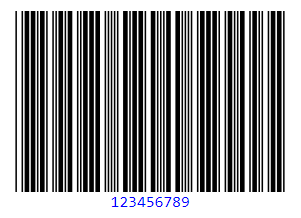
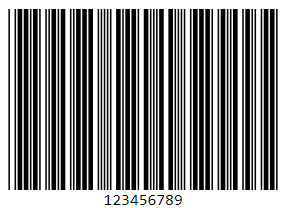
docs(barcode):improvements as per comments

diff --git a/components/barcode/overview.md b/components/barcode/overview.md
@@ -19,8 +19,7 @@ All graphics are rendered on the client by using [Scalable Vector Graphics (SVG)
 To add a Telerik Barcode to your Blazor app:
 
 1. Add the `TelerikBarcode` tag.
-1. Inside it, add `BarcodeText` tag that styles the barcode text.
-1. Provide `Value` (one-way data binding) or `bind-Value` (two-way data binding) property
+1. Provide `Value` property
 1. Set its `Height` and `Width`
 1. Optionally, choose a `Type` (one of the [encodings we support]({%slug  components/barcode/encoding%})).
     * Its default encoding is `Code39`.
@@ -32,11 +31,7 @@ The following example demonstrates how to initialize the Barcode with its defaul
 ````CSHTML
 <TelerikBarcode Width="300px"
                 Height="200px"
-                Type="@BarcodeType.Code39"
                 Value="123456789">
-    <BarcodeText Color="blue">
-        <BarcodeTextMargin Left="0"></BarcodeTextMargin>
-    </BarcodeText>
 </TelerikBarcode>
 ````
 
@@ -49,6 +44,46 @@ For more information, refer to the [article on encoding]({%slug  components/barc
 ## Features
 
 >caption The Barcode provides the following features:
+
+### General Properties
+
+* `RenderAs` - `enum` - defines the preferred rendering engine - svg/canvas.
+
+* `Checksum` - `bool` - by setting it to true, the Barcode will display the checksum digit next to the value in the text area.
+
+* `Type` - `enum` - defines the symbology (encoding) the Barcode will use - ([full list of supported encodings]({%slug  components/barcode/encoding%}))
+
+* `Value` - `string` - defines the initial value of the Barcode.
+
+* `Width` - `string`.
+
+* `Height` - `string`.
+
+* `Class` - `string` - the CSS class that will be rendered on the main wrapping element of the Barcode component.
+
+* `Background` - `string`.
+
+* `Color` - `string` - defines the color of the bar elements.
+
+### Properties for the Barcode Text
+
+* `BarcodeText` - `object`.
+
+* `BarcodeText.Color` - `string`.
+
+* `BarcodeText.Font` - `string`.
+
+* `BarcodeText.BarcodeTextMargin` - `object`.
+
+* `BarcodeText.BarcodeTextMargin.Bottom` - `double`.
+
+* `BarcodeText.BarcodeTextMargin.Left` - `double`.
+
+* `BarcodeText.BarcodeTextMargin.Right` - `double`.
+
+* `BarcodeText.BarcodeTextMargin.Top` - `double`.
+
+* `BarcodeText.Visible` - `bool` - by setting it to false, the Barcode will not display the value as a text below the barcode lines.
 
 ### Properties for the Barcode Border
 
@@ -72,46 +107,6 @@ For more information, refer to the [article on encoding]({%slug  components/barc
 
 * `BarcodePadding.Top` - `double`.
 
-### Properties for the Barcode Text
-
-* `BarcodeText` - `object`.
-
-* `BarcodeText.Color` - `string`.
-
-* `BarcodeText.Font` - `string`.
-
-* `BarcodeText.BarcodeTextMargin` - `object`.
-
-* `BarcodeText.BarcodeTextMargin.Bottom` - `double`.
-
-* `BarcodeText.BarcodeTextMargin.Left` - `double`.
-
-* `BarcodeText.BarcodeTextMargin.Right` - `double`.
-
-* `BarcodeText.BarcodeTextMargin.Top` - `double`.
-
-* `BarcodeText.Visible` - `bool` - by setting it to false, the Barcode will not display the value as a text below the barcode lines.
-
-### Other Properties
-
-* `RenderAs` - `enum` - defines the preferred rendering engine - svg/canvas.
-
-* `Background` - `string`.
-
-* `Checksum` - `bool` - by setting it to true, the Barcode will display the checksum digit next to the value in the text area.
-
-* `Color` - `string` - defines the color of the bar elements.
-
-* `Type` - `enum` - defines the symbology (encoding) the Barcode will use - ([full list of supported encodings]({%slug  components/barcode/encoding%}))
-
-* `Value` - `string` - defines the initial value of the Barcode.
-
-* `Width` - `string`.
-
-* `Height` - `string`.
-
-* `Class` - `string` - the CSS class that will be rendered on the main wrapping element of the Barcode component. 
-
 ## Methods
 
 The Barcode methods are accessible through it's reference.
@@ -121,19 +116,31 @@ The Barcode methods are accessible through it's reference.
 >caption Get a reference to the Barcode and use its methods
 
 ````CSHTML
-@* This example shows an example of getting reference to the Barcode. *@
+@* This code snippet showcases an example usage of the Refresh() method. *@
 
-<TelerikBarcode @ref="TelerikBarcodeRef" Width="300px"
-                Height="200px"
-                Type="@BarcodeType.Code39"
+<TelerikButton OnClick="@ChangeSize">Change Size!</TelerikButton>
+<br />
+<br />
+<TelerikButton OnClick="@(() => TelerikBarcodeRef.Refresh())">Refresh component after changes!</TelerikButton>
+<br />
+<br />
+
+<TelerikBarcode @ref="TelerikBarcodeRef" Width="@Width"
+                Height="@Height"
                 Value="123456789">
-    <BarcodeText Color="blue">
-        <BarcodeTextMargin Left="0"></BarcodeTextMargin>
-    </BarcodeText>
 </TelerikBarcode>
 
 @code{
     Telerik.Blazor.Components.TelerikBarcode TelerikBarcodeRef { get; set; }
+
+    string Height { get; set; } = "200px";
+    string Width { get; set; } = "300px";
+
+    public void ChangeSize()
+    {
+        Height = "400px";
+        Width = "500px";
+    }
 }
 ````
 

diff --git a/components/barcode/encoding.md b/components/barcode/encoding.md
@@ -12,7 +12,7 @@ position: 3
 
 Encoding (symbology) represents the mapping between messages and barcodes.
 
-The following table lists the available symbologies and their specifications supported by the Barcode.
+You can choose which supported encoding to use by setting the `Type` paramater of the component. The following table lists the available symbologies and their specifications supported by the Barcode.
 
 >important If the value of a particular encoding does not meet the expected length or character set, the barcode will **not** be shown.
 
